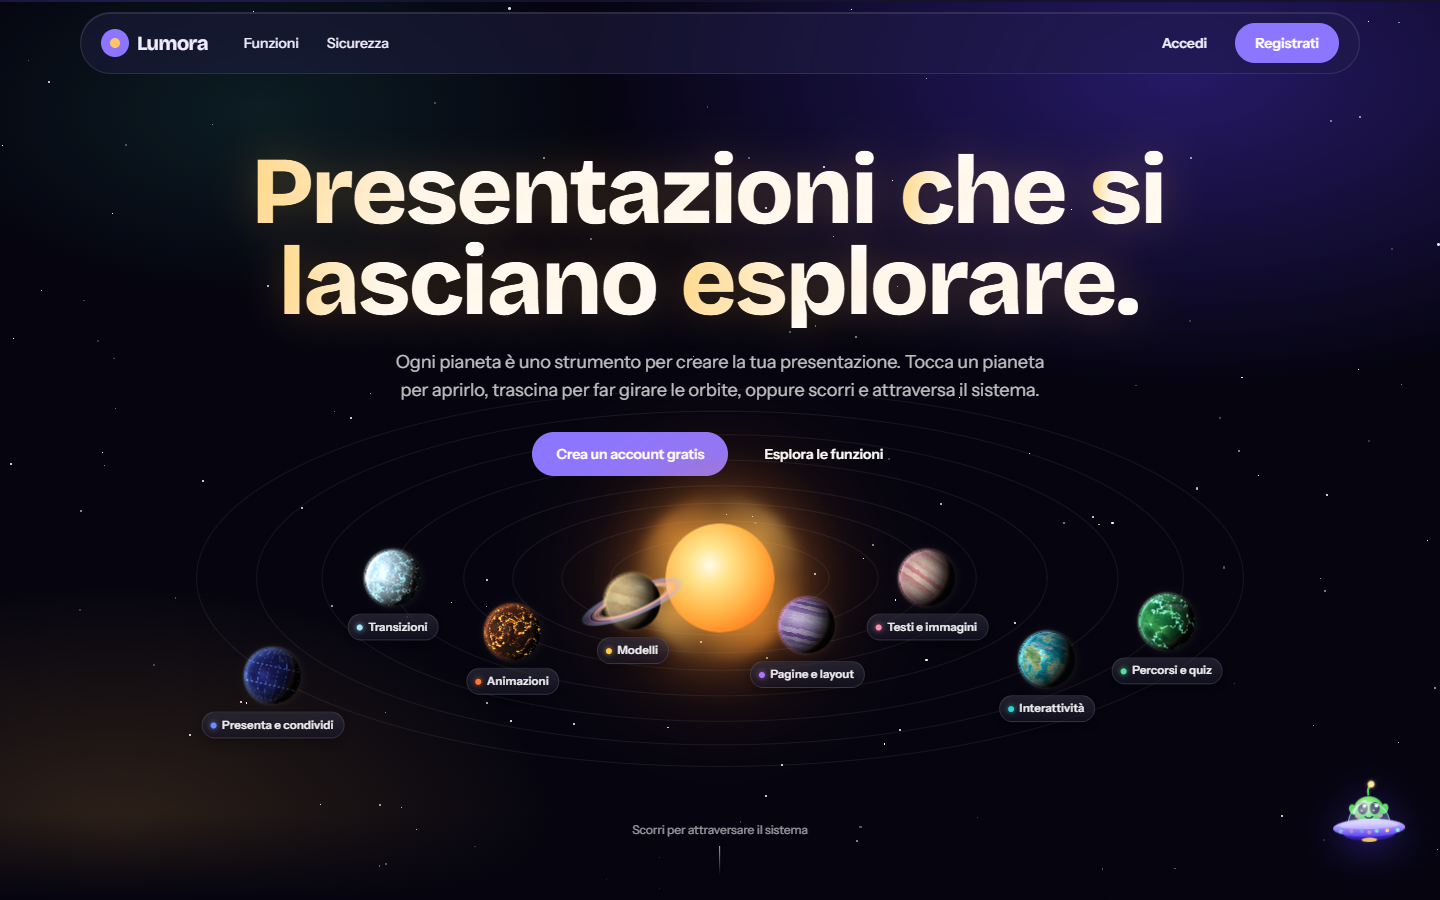
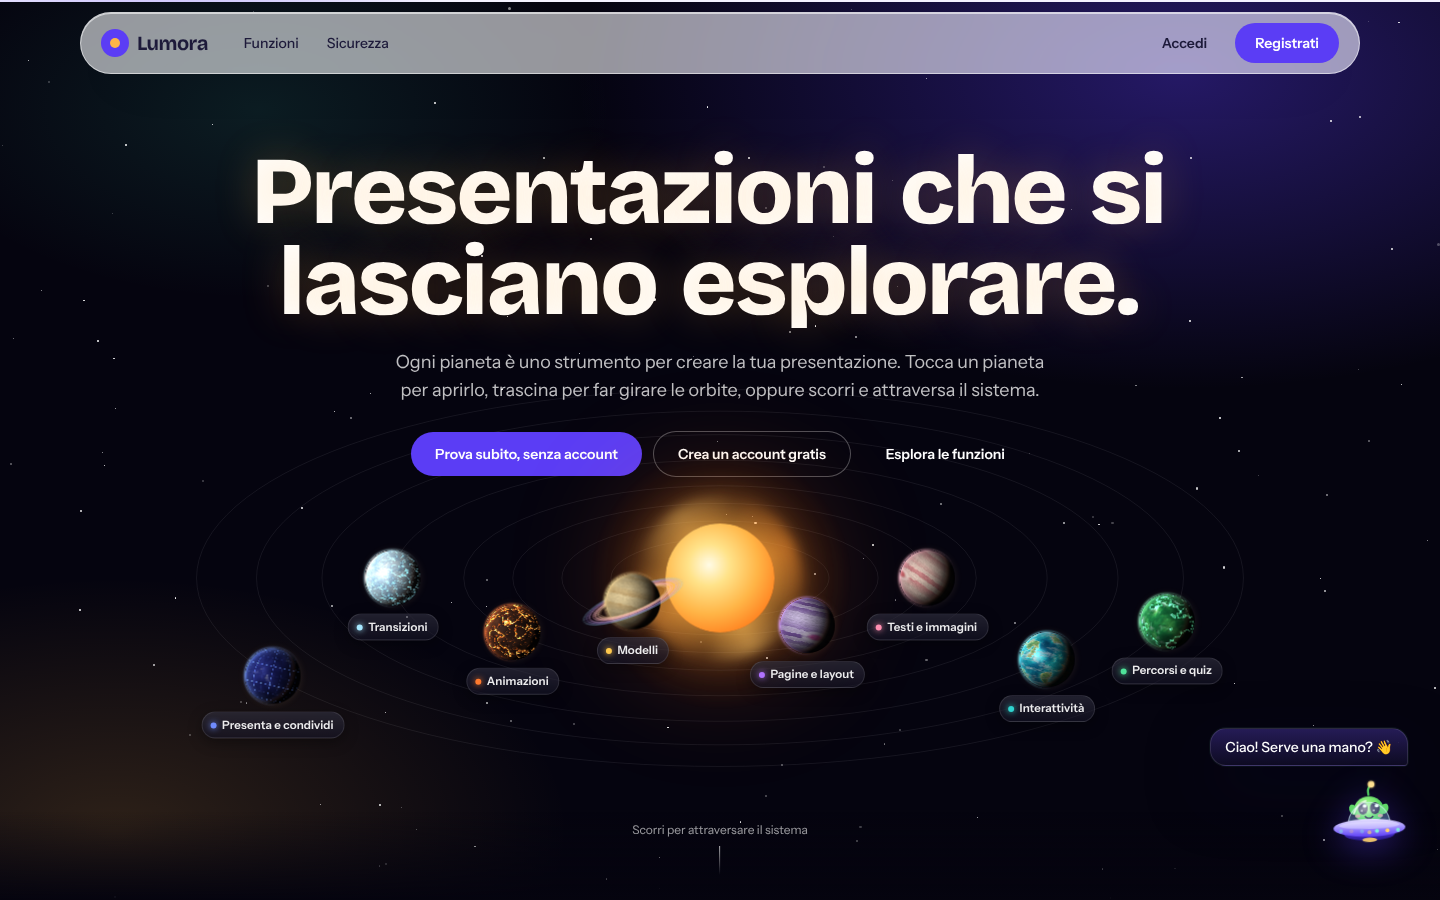
README: live demo link, tour GIF and fresh screenshots
- link to the live demo and how to try it without an account
- an animated GIF of the planet tour with the space events (640 px, 2.7 MB)
- new homepage, tour (alien ship circling the planet) and editor screenshots
- the phone view: homepage, tour and stacked editor
- features list mentions the space events, gesture stepping and draggable Zib

Claude-Session: https://claude.ai/code/session_01N72hwehBKyDFVcnQXxz1po

diff --git a/README.md b/README.md
@@ -4,7 +4,11 @@
 
 > The app's interface is in Italian.
 
+**Live demo: [lumora-rosario.vercel.app](https://lumora-rosario.vercel.app)**. Press "Prova subito, senza account" to open the editor without signing up.
+
 ![Lumora homepage: a solar system where every planet is a feature](docs/screenshots/home.png)
+
+![The tour through the planets: one world per feature, with a shooting star, meteors, an alien ship and a comet between stops](docs/screenshots/tour.gif)
 
 ## Features
 
@@ -19,7 +23,7 @@
 
 | Tour of the features | Zib assistant |
 | --- | --- |
-| ![The Templates planet page](docs/screenshots/tour.png) | ![Chat with the Zib assistant](docs/screenshots/zib.png) |
+| ![A stop of the planet tour, with an alien ship circling the planet](docs/screenshots/tour.png) | ![Chat with the Zib assistant](docs/screenshots/zib.png) |
 
 | Dashboard | Editor |
 | --- | --- |
@@ -28,6 +32,10 @@
 | Themes and templates | Page layouts |
 | --- | --- |
 | ![Choosing a theme and template](docs/screenshots/temi.png) | ![Page layout menu](docs/screenshots/layout.png) |
+
+On phones: the homepage, the planet tour and the editor, which stacks into one column.
+
+![Lumora on a phone: homepage, planet tour and editor](docs/screenshots/mobile.png)
 
 ## Security
 
